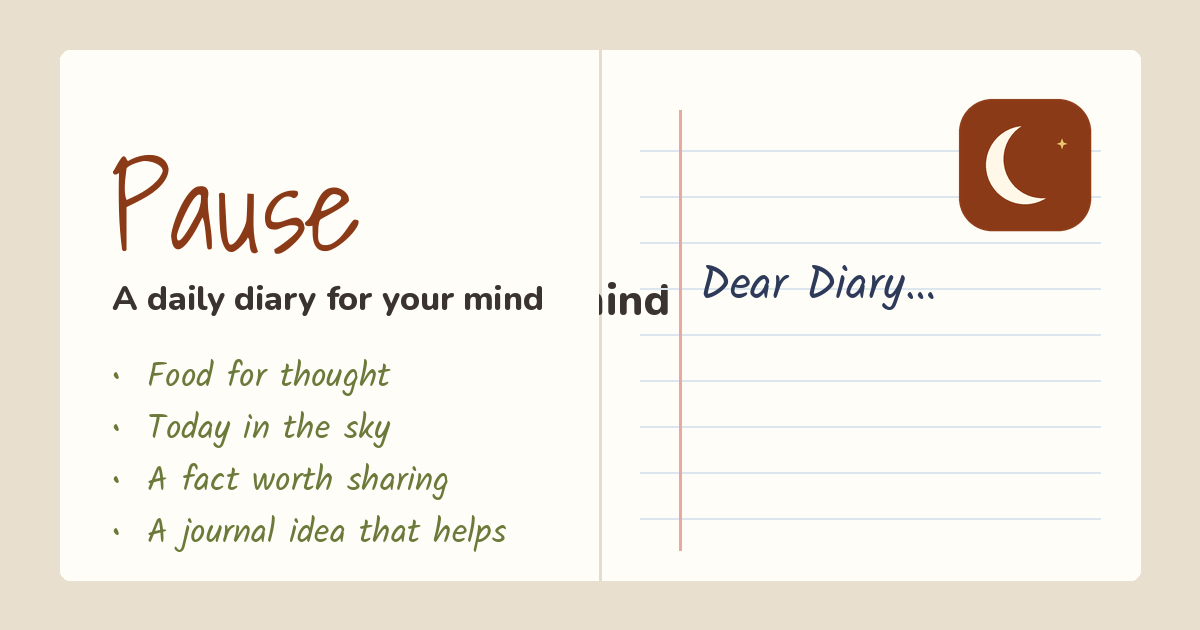
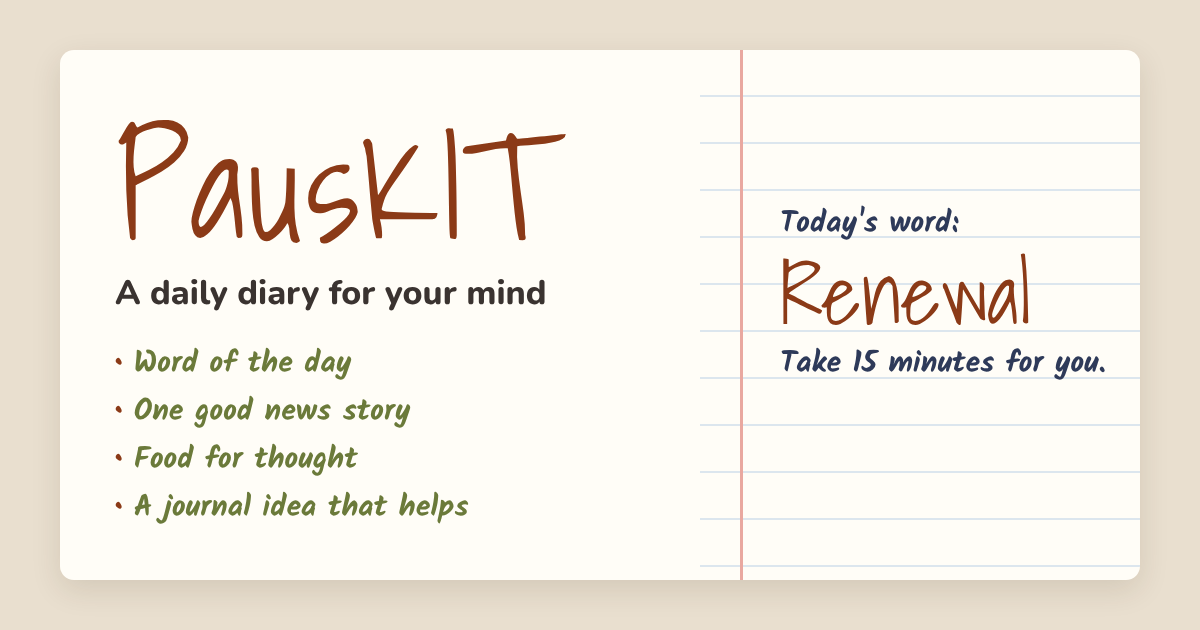
Rename to PausKIT, new link-preview image
Claude-Session: https://claude.ai/code/session_012xSpyUERQnsnHnttQoqTfH

diff --git a/app.js b/app.js
@@ -505,7 +505,7 @@ $("#authBtn").onclick = async () => { if (user) { await api.signOut(); onAuthCha
 
 // ── Settings ─────────────────────────────────────────────────
 function openSettings() {
-  $("#setWho").textContent = user ? `Signed in as ${user.email}` : "You're using Pauz-it as a guest. Create a free account to keep your journal.";
+  $("#setWho").textContent = user ? `Signed in as ${user.email}` : "You're using PausKIT as a guest. Create a free account to keep your journal.";
   $("#astroToggle").checked = astroOn();
   $("#setAuth").textContent = user ? "Sign out" : "Log in or create an account";
   $("#setInstall").hidden = standalone;
@@ -601,10 +601,10 @@ $("#newPassForm").addEventListener("submit", async (e) => {
   finally { $("#newPassSubmit").disabled = false; }
 });
 
-// ── Contact the Pauz-it team ───────────────────────────────────
+// ── Contact the PausKIT team ───────────────────────────────────
 $("#contactBtn").onclick = () => {
   $("#contactForm").hidden = false; $("#contactErr").hidden = true;
-  $("#contactTitle").textContent = "Contact the Pauz-it team";
+  $("#contactTitle").textContent = "Contact the PausKIT team";
   $("#contactMsg").textContent = "Found a problem or have an idea? We read every message.";
   if (user?.email && !$("#cEmail").value) $("#cEmail").value = user.email;
   open("#contactModal");
@@ -619,7 +619,7 @@ $("#contactForm").addEventListener("submit", async (e) => {
     $("#cText").value = "";
     $("#contactForm").hidden = true;
     $("#contactTitle").textContent = "Thank you 💛";
-    $("#contactMsg").textContent = "Your message reached the Pauz-it team. If you left your email, we'll get back to you.";
+    $("#contactMsg").textContent = "Your message reached the PausKIT team. If you left your email, we'll get back to you.";
   } catch (ex) { err.textContent = "Couldn't send right now. Please try again in a moment."; err.hidden = false; }
   finally { $("#contactSubmit").disabled = false; }
 });
@@ -677,7 +677,7 @@ function openFriends() {
   list.innerHTML = "";
   const me = myChart();
   if (!me) {
-    list.append(el("p", { className: "empty", textContent: "First add your own birth details, so Pauz-it can compare charts." }),
+    list.append(el("p", { className: "empty", textContent: "First add your own birth details, so PausKIT can compare charts." }),
       el("button", { className: "share-btn", type: "button", textContent: "Add my birth details", onclick: () => { close("#friendsModal"); openBirth(); } }));
     open("#friendsModal");
     return;
@@ -736,7 +736,7 @@ async function showInvite() {
   if (inv.is_mine) { store.del(K.invite); return toast("That's your own invite link. Send it to a friend!"); }
   const name = inv.inviter_name || "A friend";
   $("#inviteTitle").textContent = `${name} invited you`;
-  $("#inviteMsg").textContent = `${name} wants to be friends on Pauz-it, a daily diary for your mind. Accept to see your cosmic compatibility and what's happening between you two each day. You'll be able to see each other's birth charts.`;
+  $("#inviteMsg").textContent = `${name} wants to be friends on PausKIT, a daily diary for your mind. Accept to see your cosmic compatibility and what's happening between you two each day. You'll be able to see each other's birth charts.`;
   open("#inviteModal");
 }
 $("#inviteAccept").onclick = () => { store.set(K.invite + "_ok", true); close("#inviteModal"); continueInvite(); };
@@ -799,7 +799,7 @@ function shareContent(kind, extra = {}) {
   const sky = day.sky;
   switch (kind) {
     case "thought": return { label: "Food for Thought", main: day.thought.text, sub: day.thought.ask, text: `${day.thought.text}\n\n${day.thought.ask}` };
-    case "news": { const n = newsFor(viewISO); return n ? { label: "Good News", main: n.headline, sub: n.why || n.source, text: `Some good news: ${n.headline}. ${n.why || ""}\nRead it at ${n.source}: ${n.link}\nFound on Pauz-it:`, url: SITE_URL } : { label: "Good News", main: "Good things are happening", sub: "", text: "Daily good news on Pauz-it:" }; }
+    case "news": { const n = newsFor(viewISO); return n ? { label: "Good News", main: n.headline, sub: n.why || n.source, text: `Some good news: ${n.headline}. ${n.why || ""}\nRead it at ${n.source}: ${n.link}\nFound on PausKIT:`, url: SITE_URL } : { label: "Good News", main: "Good things are happening", sub: "", text: "Daily good news on PausKIT:" }; }
     case "word": { const w = day.word; return { label: "Word of the day", main: w ? w.word : "Wonder", sub: w?.meaning || "", text: `Today's word: ${w ? w.word : "Wonder"}. ${w?.meaning || ""}` }; }
     case "fact": return { label: "Random Fact of the Day", main: day.fact.text, sub: "Wait, really?", text: `Did you know? ${day.fact.text}` };
     case "sky": return { label: `Today in the Sky · ${date}`, main: sky ? Astro.catchyHeadline(sky, Math.floor(Date.parse(viewISO) / 86400000)) : "", sub: sky ? `Moon in ${sky.moon.sign} · ${sky.moon.phaseName}` : "", text: sky ? `${Astro.catchyHeadline(sky, Math.floor(Date.parse(viewISO) / 86400000))}. ${Astro.explainHeadline(sky)}` : "" };
@@ -812,8 +812,8 @@ function shareContent(kind, extra = {}) {
       const { f, c, me, them } = extra;
       return { label: "Our Cosmic Match", main: `${me.pos.Sun.sign.glyph} ${me.pos.Sun.sign.name} + ${them.pos.Sun.sign.glyph} ${them.pos.Sun.sign.name}: ${c.score}%`, sub: `Me & ${f.display_name || "my friend"}`, text: `${f.display_name || "My friend"} and I are a ${c.score}% cosmic match (${me.pos.Sun.sign.name} + ${them.pos.Sun.sign.name}). Check yours:` };
     }
-    case "invite": return { label: "You're invited", main: `${profile?.display_name || "Your friend"} wants to see your cosmic compatibility`, sub: "Tap the link to accept", text: `I'd love to see our cosmic compatibility on Pauz-it 🌙 Accept my invite here:`, url: extra.url, title: "Invite a friend" };
-    default: return { label: "Pauz-it", main: "A daily diary for your mind", sub: "One good news story, a word for the day, food for thought and a journal idea that helps.", text: "I've been using Pauz-it, a daily diary for your mind. A new page every day:" };
+    case "invite": return { label: "You're invited", main: `${profile?.display_name || "Your friend"} wants to see your cosmic compatibility`, sub: "Tap the link to accept", text: `I'd love to see our cosmic compatibility on PausKIT 🌙 Accept my invite here:`, url: extra.url, title: "Invite a friend" };
+    default: return { label: "PausKIT", main: "A daily diary for your mind", sub: "One good news story, a word for the day, food for thought and a journal idea that helps.", text: "I've been using PausKIT, a daily diary for your mind. A new page every day:" };
   }
 }
 async function makeCard(c) {

diff --git a/index.html b/index.html
@@ -7,13 +7,13 @@
     if (location.hostname.endsWith("github.io")) location.replace("https://pause-diary.pages.dev/" + location.search + location.hash);
   </script>
   <meta name="viewport" content="width=device-width, initial-scale=1, viewport-fit=cover">
-  <title>Pauz-it — a daily diary for your mind</title>
+  <title>PausKIT — a daily diary for your mind</title>
   <meta name="description" content="One diary page a day: one good news story, a word of the day, food for thought, a wild fact and a journal prompt that helps you reconnect with your thoughts.">
   <meta name="theme-color" content="#8B3A17">
 
   <!-- Link previews (WhatsApp, iMessage, Facebook, X, LinkedIn…) -->
   <meta property="og:type" content="website">
-  <meta property="og:title" content="Pauz-it — a daily diary for your mind">
+  <meta property="og:title" content="PausKIT — a daily diary for your mind">
   <meta property="og:description" content="One good news story, a word of the day, food for thought and a journal prompt. A new page every day.">
   <meta property="og:url" content="https://pause-diary.pages.dev/">
   <meta property="og:image" content="https://pause-diary.pages.dev/og-image.png">
@@ -24,7 +24,7 @@
   <link rel="icon" type="image/png" href="icons/favicon.png">
   <link rel="apple-touch-icon" href="icons/apple-touch-icon.png">
   <meta name="apple-mobile-web-app-capable" content="yes">
-  <meta name="apple-mobile-web-app-title" content="Pauz-it">
+  <meta name="apple-mobile-web-app-title" content="PausKIT">
   <meta name="apple-mobile-web-app-status-bar-style" content="default">
   <meta name="mobile-web-app-capable" content="yes">
 
@@ -39,7 +39,7 @@
   <div id="draftBanner" class="banner soft" hidden></div>
 
   <header class="topbar">
-    <div class="brand"><span id="appName">Pauz-it</span><small>a daily diary for your mind</small></div>
+    <div class="brand"><span id="appName">PausKIT</span><small>a daily diary for your mind</small></div>
     <nav class="tabs">
       <button id="installBtn" class="tab install" hidden>Install app</button>
       <button id="chartBtn" class="tab" data-astro>My chart</button>
@@ -150,9 +150,9 @@
   </main>
 
   <footer class="foot">
-    <button class="link" id="shareAppBtn" type="button">Share Pauz-it</button> ·
+    <button class="link" id="shareAppBtn" type="button">Share PausKIT</button> ·
     <button class="link" id="contactBtn" type="button">Contact us</button>
-    <p>Pauz-it is a space for reflection, not a replacement for professional support. If you're struggling, please reach out to someone you trust or a local helpline.</p>
+    <p>PausKIT is a space for reflection, not a replacement for professional support. If you're struggling, please reach out to someone you trust or a local helpline.</p>
   </footer>
 
   <!-- Sign up / log in -->
@@ -178,7 +178,7 @@
     <div class="sheet" role="dialog" aria-modal="true" aria-labelledby="birthTitle">
       <button class="x" data-close aria-label="Close">×</button>
       <h2 class="hand big" id="birthTitle">Your birth chart</h2>
-      <p class="muted" id="birthMsg">Your birth date, time and place let Pauz-it show how today's sky touches your own chart.</p>
+      <p class="muted" id="birthMsg">Your birth date, time and place let PausKIT show how today's sky touches your own chart.</p>
       <form id="birthForm" novalidate>
         <label>Your name <span class="opt">(friends will see this)</span><input type="text" id="bName" autocomplete="given-name"></label>
         <label>Birth date<input type="date" id="bDate" required></label>
@@ -250,7 +250,7 @@
   <div class="modal" id="installModal" hidden>
     <div class="sheet" role="dialog" aria-modal="true" aria-labelledby="installTitle">
       <button class="x" data-close aria-label="Close">×</button>
-      <h2 class="hand big" id="installTitle">Add Pauz-it to your phone</h2>
+      <h2 class="hand big" id="installTitle">Add PausKIT to your phone</h2>
       <ol class="install-steps">
         <li><strong>iPhone (Safari):</strong> tap the Share button, then <em>Add to Home Screen</em>.</li>
         <li><strong>Android (Chrome):</strong> tap the ⋮ menu, then <em>Install app</em> or <em>Add to Home screen</em>.</li>
@@ -275,11 +275,11 @@
     </div>
   </div>
 
-  <!-- Contact the Pauz-it team -->
+  <!-- Contact the PausKIT team -->
   <div class="modal" id="contactModal" hidden>
     <div class="sheet" role="dialog" aria-modal="true" aria-labelledby="contactTitle">
       <button class="x" data-close aria-label="Close">×</button>
-      <h2 class="hand big" id="contactTitle">Contact the Pauz-it team</h2>
+      <h2 class="hand big" id="contactTitle">Contact the PausKIT team</h2>
       <p class="muted" id="contactMsg">Found a problem or have an idea? We read every message.</p>
       <form id="contactForm" novalidate>
         <label>What's it about?
@@ -303,9 +303,9 @@
       <div class="set-list">
         <button type="button" id="setChart" data-astro>✦ My birth chart</button>
         <button type="button" id="setJournal">✎ My journal</button>
-        <button type="button" id="setInstall">📱 Add Pauz-it to your phone</button>
-        <button type="button" id="setShare">💌 Share Pauz-it with a friend</button>
-        <button type="button" id="setContact">✉ Contact the Pauz-it team</button>
+        <button type="button" id="setInstall">📱 Add PausKIT to your phone</button>
+        <button type="button" id="setShare">💌 Share PausKIT with a friend</button>
+        <button type="button" id="setContact">✉ Contact the PausKIT team</button>
         <button type="button" id="setAuth">Log in</button>
       </div>
     </div>

diff --git a/sw.js b/sw.js
@@ -1,6 +1,6 @@
-// Pauz-it service worker: makes the app installable and lets the page open offline.
+// PausKIT service worker: makes the app installable and lets the page open offline.
 // Journal data is NOT stored here; it lives in your account (Supabase) and in drafts on the device.
-const CACHE = "pause-v11";
+const CACHE = "pause-v12";
 const SHELL = ["./", "index.html", "styles.css", "app.js", "astro.js", "content.js", "config.js", "manifest.webmanifest", "news.json", "icons/icon-192.png", "icons/icon-512.png"];
 
 self.addEventListener("install", (e) => {

diff --git a/config.js b/config.js
@@ -9,7 +9,7 @@
 // ─────────────────────────────────────────────────────────────
 
 export const CONFIG = {
-  APP_NAME: "Pauz-it",
+  APP_NAME: "PausKIT",
   SUPABASE_URL: "https://bxfrgxxwbzeuhyqaydit.supabase.co",
   SUPABASE_ANON_KEY: "sb_publishable_YQgSRqfTQg_5TX8f5_AzWQ_0YkZ4uom", // public key, safe to publish
 };

diff --git a/scripts/fetch_news.py b/scripts/fetch_news.py
@@ -1,8 +1,8 @@
 """
-Pauz-it daily content job (runs every morning on GitHub Actions, see .github/workflows/daily.yml)
+PausKIT daily content job (runs every morning on GitHub Actions, see .github/workflows/daily.yml)
 
 1. Collects recent stories from good-news outlets AND science / health / tech news sources.
-2. Filters for the kind of news Pauz-it wants first thing in the morning:
+2. Filters for the kind of news PausKIT wants first thing in the morning:
    discoveries, research breakthroughs, AI for good, health, helpful technology,
    and people improving life for their communities. Skips personal feats, celebrities,
    cute-animal stories, politics and anything negative.
@@ -139,7 +139,7 @@ def numbers(s):
 
 def ask_model(shortlist):
     listing = "\n".join(f"[{i}] ({c['source']}) {c['title']} — {c['summary'][:300]}" for i, c in enumerate(shortlist))
-    prompt = f"""You choose the single best "good news" story for Pauz-it, a calm daily diary app people read with their morning coffee.
+    prompt = f"""You choose the single best "good news" story for PausKIT, a calm daily diary app people read with their morning coffee.
 
 Pick ONE story that is about: a scientific discovery or research breakthrough, AI or technology helping people, a health or medical advance, a clean-energy or environmental solution that works, or people/communities finding ways to live better together.
 Do NOT pick: personal feats or human-interest stories about one individual, celebrities, cute animals, sport, politics, anything sad, scary or uncertain.
@@ -155,7 +155,7 @@ Reply with JSON only: {{"pick": <number>, "backup": <number>, "topic": "Science|
 
 def write_story(c, body):
     source_text = f"{c['title']}\n{c['summary']}\n{body}"
-    prompt = f"""Retell this news story for Pauz-it, a warm daily diary app. Write for a curious adult with no science background, reading on their phone with a coffee.
+    prompt = f"""Retell this news story for PausKIT, a warm daily diary app. Write for a curious adult with no science background, reading on their phone with a coffee.
 
 Rules:
 - Use ONLY facts stated in the source text below. Never add names, numbers, dates, places or claims that are not in it.
@@ -271,7 +271,7 @@ FALLBACK_WORD = {"Health": ("Healing", "The Body"), "AI & Tech": ("Ingenuity", "
 
 
 def word_of_day(st, recent):
-    prompt = f"""Choose the Word of the Day for Pauz-it, a calm daily diary app. It must be inspired by today's good news story below.
+    prompt = f"""Choose the Word of the Day for PausKIT, a calm daily diary app. It must be inspired by today's good news story below.
 
 Rules:
 - One single, simple, positive English word anyone understands (for example: Renewal, Patience, Together, Wonder, Courage, Healing).
